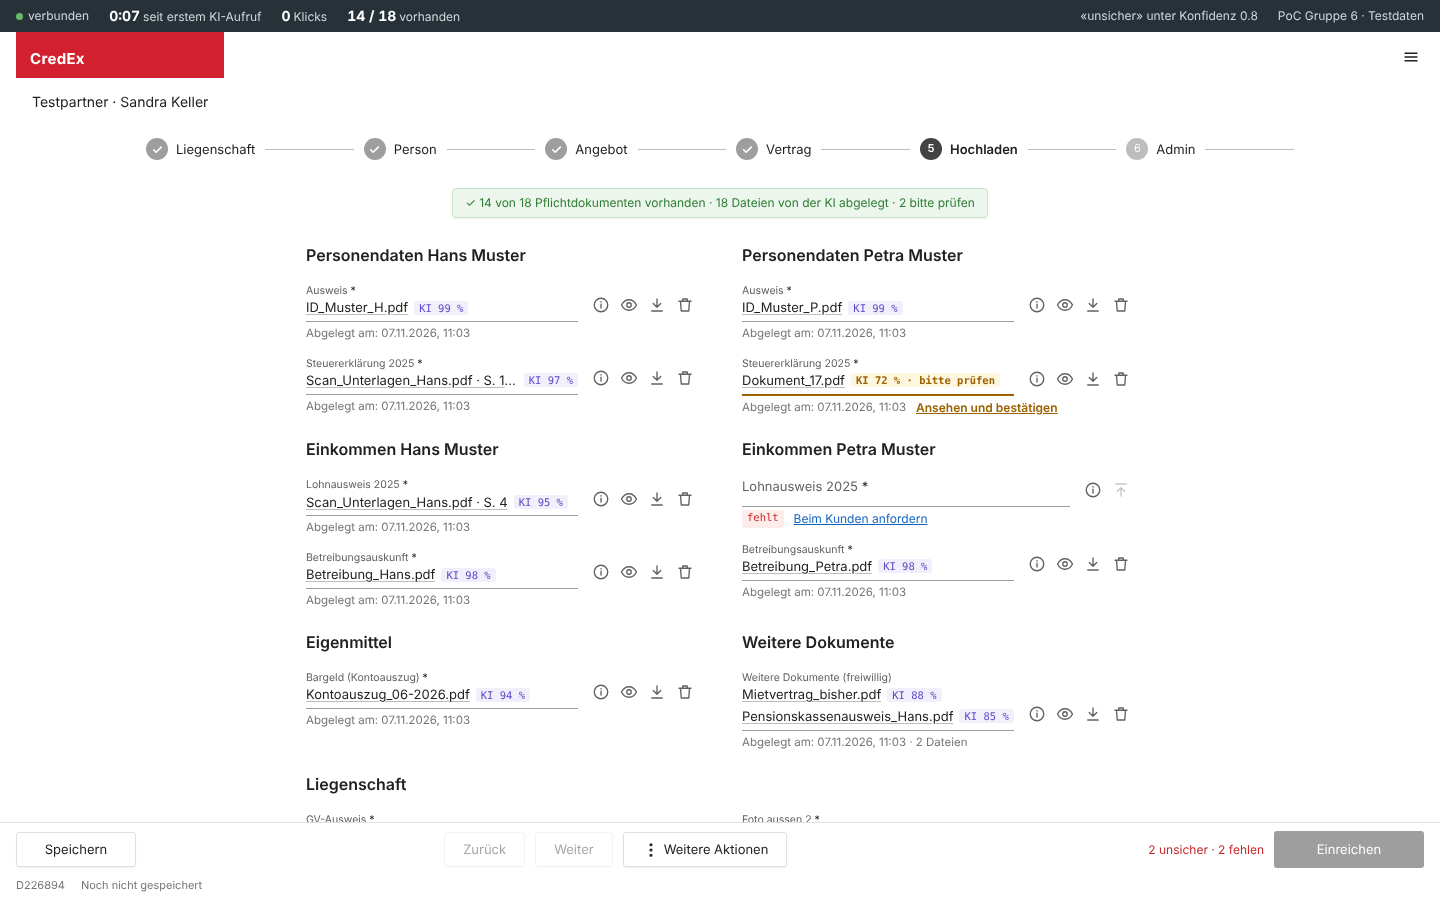
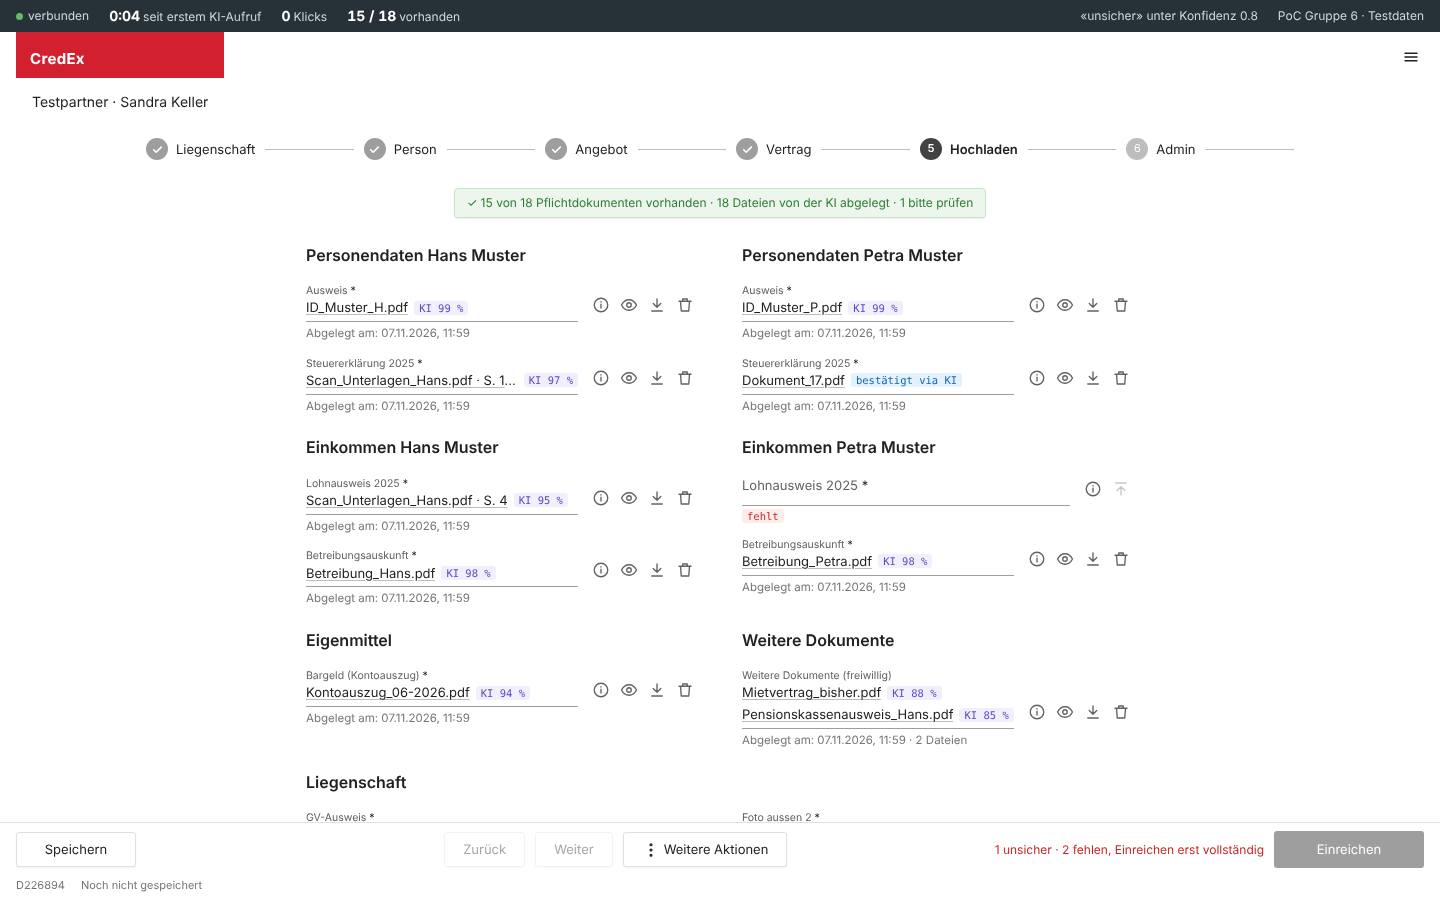
v1.6: PoC und Excel auf den Stand der Teamentscheide, Freigabe des Lehrbeispiels festgehalten
Claude-Session: https://claude.ai/code/session_01UmNbM57KSkFmrku1Dkr5S5

diff --git a/content/prototype/pocMcpServer.md b/content/prototype/pocMcpServer.md
@@ -12,9 +12,11 @@ sources:
     resource: /interface/mcpSchnittstelle.md
   - id: cr-1-3
     resource: /sources/cr_1_3.md
+  - id: cr-1-6
+    resource: /sources/cr_1_6.md
 generated:
   by: jarvis/1.0
-  at: 2026-11-07T10:13:58Z
+  at: 2026-11-07T11:00:54Z
 ---
 
 # Prototyp – PoC MCP-Server
@@ -32,9 +34,13 @@ Belegen, dass das Konversations-LLM die Arbeit wirklich erleichtert (Feedback Mo
 
 ## Screens
 
-![PoC-Übersicht nach der Ablage durch die KI: 14 von 18 vorhanden, 2 unsicher, 2 fehlen](img/pocUebersicht.png)
+![PoC-Übersicht nach der Ablage durch die KI: 15 von 18 vorhanden, 1 unsicher, 2 fehlen](img/pocUebersicht.png)
 
-*Übersicht nach einem Testlauf am 07.11.2026: Die KI hat das Sammel-PDF von Hans in Steuererklärung (S. 1–3) und Lohnausweis (S. 4) geteilt, Dokument_17 als Steuererklärung von Petra mit 72 % erkannt (unter der Schwelle, «bitte prüfen»). Lohnausweis Petra und Grundbuchauszug fehlen absichtlich. Einreichen ist gesperrt.*
+*Übersicht nach einem Testlauf am 07.11.2026: Die KI hat das Sammel-PDF von Hans in Steuererklärung (S. 1–3) und Lohnausweis (S. 4) geteilt und Dokument_17 als Steuererklärung von Petra mit 72 % erkannt, unter der Schwelle. Die Beraterin hat diese Zuordnung per Auftrag an die KI bestätigt («bestätigt via KI»). Das Foto Wohnzimmer ist noch unsicher; Lohnausweis Petra und Grundbuchauszug fehlen absichtlich. Einreichen bleibt gesperrt, bis alles vorhanden ist.*
+
+![Zuordnungsprotokoll des PoC mit den Akteuren KI und BERATER_VIA_KI und dem Auftrag an die KI im Wortlaut](img/pocProtokoll.png)
+
+*Das Zuordnungsprotokoll: Jeder Protokolleintrag nennt den Akteur wie im Fachklassenmodell (`KI`, `BERATER`, `BERATER_VIA_KI`). Bei `BERATER_VIA_KI` steht der Auftrag an die KI im Wortlaut darunter, auch im CSV-Export.*
 
 ## Abgedeckte Stories
 
@@ -42,12 +48,15 @@ Belegen, dass das Konversations-LLM die Arbeit wirklich erleichtert (Feedback Mo
 
 ## Stand und Abweichungen
 
-Stand 30.10.2026. Bewusste Vereinfachungen: keine Anmeldung (eine feste Testberaterin), Dateien per Dateiname statt echtem Upload, Speicherung in JSON statt in der Plattform, Konfidenz von der KI selbst geliefert.
+Stand 07.11.2026, auf dem Stand aller Entscheide. Bewusste Vereinfachungen: keine Anmeldung (eine feste Testberaterin), Dateien per Dateiname statt echtem Upload, Speicherung in JSON statt in der Plattform, Konfidenz von der KI selbst geliefert.
 
-Nachzuführen auf die Entscheide vom 30.10. und 07.11.:
+Am 07.11.2026 nachgeführt:
 
-| Abweichung im PoC | Entscheid | Massnahme |
+| Vorher im PoC | Entscheid | Jetzt |
 |---|---|---|
-| Schaltfläche «Beim Kunden anfordern» (im Screenshot sichtbar) | [E05](../decisions/e05NachfordernNichtImScope.md) | entfernen |
-| Einreichen mit Begründung bei fehlenden Pflichtdokumenten | [E09](../decisions/e09EinreichenNurVollstaendig.md) | Begründungsfeld entfernen, nur vollständig |
-| Protokoll schreibt «Beraterin (via KI)» | [E10](../decisions/e10BestaetigenPerKiAuftrag.md) | auf `BERATER_VIA_KI` vereinheitlichen |
+| Schaltfläche «Beim Kunden anfordern» und Status «angefordert» | [E05](../decisions/e05NachfordernNichtImScope.md) | entfernt; fehlende Dokumente beschafft die Beraterin selbst, die KI legt sie danach im selben Antrag ab |
+| Einreichen mit Begründung bei fehlenden Pflichtdokumenten | [E09](../decisions/e09EinreichenNurVollstaendig.md) | Begründungsfeld entfernt; Einreichen erst, wenn kein Pflichtdokument fehlt und keine Zuordnung unsicher ist, auch serverseitig geprüft |
+| Protokoll schreibt «Beraterin (via KI)», Auftrag gekürzt im Aktionstext | [E10](../decisions/e10BestaetigenPerKiAuftrag.md) | Akteur `KI`, `BERATER` oder `BERATER_VIA_KI` wie im [Protokolleintrag](../domain_model/entities/protokolleintrag.md); Auftrag im Wortlaut in einem eigenen Feld |
+| Werkzeuge geben deutsche Kurzformen als Status zurück | [MCP-Schnittstelle](../interface/mcpSchnittstelle.md) | Status wie in der Spezifikation: `FEHLT`, `UNSICHER`, `VORHANDEN` und `VON_KI_ZUGEORDNET`, `BESTAETIGT`, `VERWORFEN` |
+
+Für einen vollständigen Testlauf liegen die zwei absichtlich fehlenden Pflichtdokumente im Ordner `testdossier_nachreichung/` des PoC; die Testleitung legt sie als «Nachreichung des Kunden» ins Dossier. Die Vorversion des PoC ist im Gruppenordner archiviert.

diff --git a/content/sources/cr_1_6.md b/content/sources/cr_1_6.md
@@ -1,0 +1,61 @@
+---
+title: "CR-1.6 – PoC und Excel auf den Stand der Teamentscheide"
+linkTitle: "CR-1.6 PoC und Excel nachgeführt"
+type: change-request
+description: "Den PoC auf die Teamentscheide E05, E09 und E10 nachführen, das Anforderungs-Excel als gültige Fassung übernehmen und die Freigabe des Lehrbeispiels festhalten."
+weight: 7
+generated:
+  by: jarvis/1.0
+  at: 2026-11-07T11:01:17Z
+---
+
+# CR-1.6 – PoC und Excel auf den Stand der Teamentscheide
+
+Der Change Request, der die letzten bekannten Abweichungen zwischen PoC, Anforderungs-Excel und dieser Dokumentation schliesst.
+
+---
+
+## Anfrage
+
+Angefragt von Cem Öngören am 07.11.2026: Freigabe des Lehrbeispiels durch Marcel Ronner festhalten, den PoC umbauen, das nachgeführte Anforderungs-Excel als gültige Fassung bestätigen.
+
+## Analyse
+
+- Die Seite zum PoC führte drei Abweichungen von den Entscheiden E05, E09 und E10 als offen. Dazu gaben die Werkzeuge des PoC den Status mit deutschen Kurzformen zurück statt mit den Werten der MCP-Schnittstelle.
+- Mit «nur vollständig einreichen» kann ein PoC-Test mit dem Testdossier nie einreichen, weil zwei Pflichtdokumente absichtlich fehlen. Der Test braucht deshalb eine Nachreichung.
+- FA-07, FA-11 und NFA-04 standen als «im Excel nachzutragen» in den Katalogen.
+
+## Grundlagen
+
+Teamentscheide [E05](../decisions/e05NachfordernNichtImScope.md), [E09](../decisions/e09EinreichenNurVollstaendig.md) und [E10](../decisions/e10BestaetigenPerKiAuftrag.md); die [MCP-Schnittstelle](../interface/mcpSchnittstelle.md); der [Protokolleintrag](../domain_model/entities/protokolleintrag.md) im Fachklassenmodell.
+
+## Entscheide
+
+- **PoC:** Die Schaltfläche «Beim Kunden anfordern» und das Begründungsfeld sind entfernt. Einreichen geht nur vollständig, auch serverseitig geprüft. Das Protokoll schreibt den Akteur als `KI`, `BERATER` oder `BERATER_VIA_KI` und den Auftrag an die KI im Wortlaut. Die Werkzeuge geben den Status wie in der Spezifikation zurück. Ein gespeicherter Zustand der Vorversion wird übernommen. Die Vorversion ist im Gruppenordner archiviert.
+- **PoC-Test:** Die zwei fehlenden Pflichtdokumente liegen als «Nachreichung des Kunden» bereit. Die Testleitung legt sie während des Tests ins Dossier.
+- **Excel:** Die Fassung vom 07.11.2026 ist gültig (FA-07 ohne Begründung, FA-11 neu mit Priorität Mittel, NFA-04 «alle acht Werkzeuge»). Die Fassung vom 31.10.2026 ist archiviert.
+- **Lehrbeispiel:** Marcel Ronner hat die Nutzung von okf-productdocumentation am 07.11.2026 freigegeben. Das README hält es fest.
+
+## Auswirkungen
+
+| Artefakt | Auswirkung | Details |
+|---|---|---|
+| [Prototyp – PoC MCP-Server](../prototype/pocMcpServer.md) | geändert | neue Screens, Abweichungen als umgesetzt |
+| [Validierung – PoC-Test](../validation/pocTest.md) | geändert | Nachreichung im Ablauf, Vorlauf wiederholt |
+| [Funktionale Anforderungen](../requirements/funktionaleAnforderungen.md) | geändert | offene Punkte erledigt |
+| [Nicht-funktionale Anforderungen](../requirements/nichtfunktionaleAnforderungen.md) | geändert | NFA-04 im Excel erledigt |
+| README | geändert | Freigabe durch Marcel Ronner |
+| PoC im Gruppenordner, Anforderungs-Excel | geändert | ausserhalb dieser Dokumentation |
+
+## User Stories
+
+Keine. Die Stories beschrieben das Verhalten schon richtig; der PoC folgt ihnen jetzt.
+
+## Abnahme
+
+- Der PoC zeigt kein «Beim Kunden anfordern» und kein Begründungsfeld; Einreichen mit Lücken lehnt der Server ab.
+- Ein Bestätigen per Auftrag an die KI steht im Protokoll und im CSV als `BERATER_VIA_KI` mit dem Auftrag im Wortlaut.
+
+## Status
+
+Umgesetzt in v1.6 am 2026-11-07. Wartet auf die Freigabe der Gruppe.

diff --git a/content/validation/pocTest.md b/content/validation/pocTest.md
@@ -12,9 +12,11 @@ sources:
     resource: /requirements/nichtfunktionaleAnforderungen.md
   - id: cr-1-3
     resource: /sources/cr_1_3.md
+  - id: cr-1-6
+    resource: /sources/cr_1_6.md
 generated:
   by: jarvis/1.0
-  at: 2026-11-07T10:13:58Z
+  at: 2026-11-07T11:00:54Z
 ---
 
 # Validierung – PoC-Test heute gegen neu
@@ -30,6 +32,7 @@ Belegen, dass der Upload über die eigene KI die Arbeit erleichtert (Feedback Mo
 | Teilnehmende | 3 bis 5 Kundenberatende eines Partners, vermittelt über V1 |
 | Design | Jede Person macht beide Varianten mit demselben Testdossier (17 Dateien): heute (Einzel-Upload im [Klickprototyp](../prototype/klickprototyp.md)) und neu ([PoC](../prototype/pocMcpServer.md)); Reihenfolge abwechselnd gegen Lerneffekte |
 | Ablauf pro Person, ca. 30 Min. | Einführung 3 Min. · Variante 1 · Variante 2 · Kurzfragebogen und 2 offene Fragen · Testlauf zurücksetzen |
+| Nachreichung | Eingereicht wird nur vollständig ([E09](../decisions/e09EinreichenNurVollstaendig.md)). Sobald die Testperson die Lücken sieht, legt die Testleitung die zwei fehlenden Pflichtdokumente aus `testdossier_nachreichung/` ins Dossier («der Kunde hat sie geschickt»); die Testperson lässt sie von der KI ablegen und reicht dann ein. Die Wartezeit dazwischen zählt nicht zur Dauer. |
 | Messung | automatisch: Dauer bis Einreichung, Klicks, Bestätigungen und Umordnungen (`messungen.csv`); manuell: korrekte Zuordnungen gegen Musterlösung; Fragebogen 1 bis 5 |
 | Termin | Testwoche 16. bis 18.11.2026 |
 
@@ -52,7 +55,7 @@ Belegen, dass der Upload über die eigene KI die Arbeit erleichtert (Feedback Mo
 | Zufriedenheit (1 bis 5) | *ausstehend* | *ausstehend* | |
 | Wechsel KI-Fenster störend? (1 bis 5) | entfällt | *ausstehend* | |
 
-Technischer Vorlauf am 07.11.2026 (ohne Testpersonen, Werkzeugaufrufe direkt): 17 Dateien abgelegt, Sammel-PDF korrekt aufgeteilt, 2 Zuordnungen unter der Schwelle erkannt, 2 fehlende Pflichtdokumente gemeldet, Einreichen gesperrt.
+Technischer Vorlauf am 07.11.2026 (ohne Testpersonen, Werkzeugaufrufe direkt): 17 Dateien abgelegt, Sammel-PDF korrekt aufgeteilt, 2 Zuordnungen unter der Schwelle erkannt, 2 fehlende Pflichtdokumente gemeldet, Einreichen gesperrt. Nach dem Nachführen des PoC am selben Tag wiederholt: eine Zuordnung per Auftrag an die KI bestätigt und als `BERATER_VIA_KI` mit Auftrag protokolliert; Einreichen mit Lücken vom Server abgelehnt, nach der Nachreichung möglich.
 
 ## Änderungen an den Artefakten
 

diff --git a/content/traceability/freigaben.md b/content/traceability/freigaben.md
@@ -2,7 +2,7 @@
 title: "Freigaben – CredEx Phase 1"
 linkTitle: "Freigaben"
 type: approval-status
-description: "Welche Artefakte ein Mensch aus der Gruppe geprüft und freigegeben hat: 0 von 85."
+description: "Welche Artefakte ein Mensch aus der Gruppe geprüft und freigegeben hat: 0 von 86."
 weight: 2
 ---
 
@@ -10,7 +10,7 @@ weight: 2
 
 # Freigaben – CredEx Phase 1
 
-**0 von 85 Artefakten freigegeben.** Jarvis schreibt Entwürfe (`generated`); freigegeben ist ein Artefakt erst, wenn ein Mensch aus der Gruppe es gelesen hat und das mit `make verify PAGES="…" WHO=<name>` festhält – oder ohne Installation über GitHub: *Actions → Freigabe erfassen → Run workflow*.
+**0 von 86 Artefakten freigegeben.** Jarvis schreibt Entwürfe (`generated`); freigegeben ist ein Artefakt erst, wenn ein Mensch aus der Gruppe es gelesen hat und das mit `make verify PAGES="…" WHO=<name>` festhält – oder ohne Installation über GitHub: *Actions → Freigabe erfassen → Run workflow*.
 
 Die **Vertrauensstufe** leitet sich aus `verified` ab, wie es das Open Knowledge Format vorsieht: ○ *Entwurf* ohne Freigabe, ◐ *maschinell bestätigt*, wenn nur ein Prozess bestätigt hat, ✔ *freigegeben*, sobald ein Mensch freigegeben hat. *Seither geändert* heisst, dass Jarvis das Artefakt nach der letzten Freigabe neu geschrieben hat; dann gilt die Freigabe nur für die frühere Fassung. Jede Seite zeigt ihre Stufe auch oben im Text.
 
@@ -81,6 +81,7 @@ Die **Vertrauensstufe** leitet sich aus `verified` ab, wie es das Open Knowledge
 | [CR-1.3 – Vollständigkeit nach CAS Modul 2](../sources/cr_1_3.md) | `change-request` | 2026-11-07 | ○ Entwurf | **offen** |
 | [CR-1.4 – Website und Freigabe-Workflow](../sources/cr_1_4.md) | `change-request` | 2026-11-07 | ○ Entwurf | **offen** |
 | [CR-1.5 – Befunde des OKF-Assessments beheben](../sources/cr_1_5.md) | `change-request` | 2026-11-07 | ○ Entwurf | **offen** |
+| [CR-1.6 – PoC und Excel auf den Stand der Teamentscheide](../sources/cr_1_6.md) | `change-request` | 2026-11-07 | ○ Entwurf | **offen** |
 | [OKF v0.2 Conformance Assessment – 2026-11-07](../sources/okf_assessment_2026_11_07.md) | `assessment` | 2026-11-07 | ○ Entwurf | **offen** |
 | [Zustandsdiagramm – Antrag](../state_chart/antragStateChart.md) | `state-chart` | 2026-11-07 | ○ Entwurf | **offen** |
 | [Zustandsdiagramm – Dokument](../state_chart/dokumentStateChart.md) | `state-chart` | 2026-11-07 | ○ Entwurf | **offen** |

diff --git a/content/change_log/changeLog.md b/content/change_log/changeLog.md
@@ -17,9 +17,11 @@ sources:
     resource: /sources/cr_1_4.md
   - id: cr-1-5
     resource: /sources/cr_1_5.md
+  - id: cr-1-6
+    resource: /sources/cr_1_6.md
 generated:
   by: jarvis/1.0
-  at: 2026-11-07T10:22:19Z
+  at: 2026-11-07T11:01:17Z
 ---
 
 # Change Log – CredEx Phase 1
@@ -36,6 +38,22 @@ Jeder Versionsabschnitt nennt **jedes Artefakt, das erstellt oder geändert wurd
 | 🟡 `geändert` | Bestehendes Artefakt oder Element geändert |
 | 🔴 `veraltet` | Artefakt oder Element zur Entfernung vorgesehen |
 | ⚫ `entfernt` | Artefakt oder Element gelöscht |
+
+---
+
+## v1.6 – PoC und Excel auf den Stand der Teamentscheide (2026-11-07)
+
+Der PoC folgt den Entscheiden E05, E09 und E10, das Anforderungs-Excel vom 07.11. ist gültig, und die Freigabe des Lehrbeispiels ist festgehalten. Siehe [CR-1.6](../sources/cr_1_6.md).
+
+| Artefakt | Status | Beschreibung |
+|---|---|---|
+| [Prototyp – PoC MCP-Server](../prototype/pocMcpServer.md) | 🟡 geändert | Neue Screens (Übersicht, Protokoll), Abweichungen umgesetzt |
+| [Validierung – PoC-Test heute gegen neu](../validation/pocTest.md) | 🟡 geändert | Nachreichung im Ablauf, technischer Vorlauf wiederholt |
+| [Funktionale Anforderungen – CredEx Phase 1](../requirements/funktionaleAnforderungen.md) | 🟡 geändert | FA-07 und FA-11 im Excel erledigt |
+| [Nicht-funktionale Anforderungen – CredEx Phase 1](../requirements/nichtfunktionaleAnforderungen.md) | 🟡 geändert | NFA-04 im Excel erledigt |
+| [CR-1.6 – PoC und Excel auf den Stand der Teamentscheide](../sources/cr_1_6.md) | 🟢 neu | Der Change Request zu dieser Version |
+| [Change Log – CredEx Phase 1](../change_log/changeLog.md) | 🟡 geändert | Eintrag v1.6 |
+| [Log](../log.md) | 🟡 geändert | Neu erzeugt |
 
 ---
 

diff --git a/content/log.md b/content/log.md
@@ -12,6 +12,7 @@ weight: 80
 ## 2026-11-07
 
 - **Assessment:** [OKF v0.2 Conformance Assessment – 2026-11-07](sources/okf_assessment_2026_11_07.md) — Conformant with OKF v0.2 on all three mandatory checks; of the 41 checks, 24 meets, 3 partial, 5 not adopted, 1 deviates, 8 n/a.
+- **Release:** [v1.6 – PoC und Excel auf den Stand der Teamentscheide](change_log/changeLog.md) — Der PoC folgt den Entscheiden E05, E09 und E10, das Anforderungs-Excel vom 07.11. ist gültig, und die Freigabe des Lehrbeispiels ist festgehalten. Siehe CR-1.6.
 - **Release:** [v1.5 – Befunde des OKF-Assessments behoben](change_log/changeLog.md) — Fussnoten auf den Akteurseiten, ehrliche Zeitstempel, die Vertrauensstufe auf jeder Seite und der Grund für relative Links. Siehe CR-1.5.
 - **Release:** [v1.4 – Website und Freigabe-Workflow](change_log/changeLog.md) — Deutsche Oberfläche, Druckfassung, Freigabe ohne lokale Installation und eine erzeugte Übersicht der Freigaben. Siehe CR-1.4.
 - **Release:** [v1.3 – Vollständigkeit nach CAS Modul 2](change_log/changeLog.md) — Alle Artefakte, die Modul 2 verlangt: Ausgangslage, Rollen und Personas, Restriktionen, Entscheide, Lösungsoptionen, Prototypen, Validierung, Architektur, Umsetzung, Rückverfolgung und Glossar. Siehe CR-1.3.

diff --git a/content/requirements/funktionaleAnforderungen.md b/content/requirements/funktionaleAnforderungen.md
@@ -28,9 +28,11 @@ sources:
     resource: /sources/cr_1_0.md
   - id: cr-1-2
     resource: /sources/cr_1_2.md
+  - id: cr-1-6
+    resource: /sources/cr_1_6.md
 generated:
   by: jarvis/1.0
-  at: 2026-11-07T10:13:58Z
+  at: 2026-11-07T11:00:54Z
 ---
 
 # Funktionale Anforderungen – CredEx Phase 1
@@ -64,5 +66,4 @@ Die funktionalen Anforderungen beschreiben, was das System können muss. Quelle 
 
 ## Offene Punkte
 
-- **FA-07** ist gegenüber dem Excel vom 31.10.2026 geändert: kein Einreichen mit Begründung mehr (siehe [CR-1.0](../sources/cr_1_0.md)). Das Excel ist nachzuführen.
-- **FA-11** ist neu (Teamentscheid 07.11.2026) und im Anforderungs-Excel nachzutragen.
+- Keine. FA-07 (kein Einreichen mit Begründung mehr, siehe [CR-1.0](../sources/cr_1_0.md)) und FA-11 (neu, Teamentscheid 07.11.2026) stehen seit dem 07.11.2026 auch im Anforderungs-Excel, das die Gruppe als gültige Fassung bestätigt hat.

diff --git a/content/requirements/nichtfunktionaleAnforderungen.md b/content/requirements/nichtfunktionaleAnforderungen.md
@@ -16,9 +16,11 @@ sources:
     resource: /sources/cr_1_2.md
   - id: cr-1-3
     resource: /sources/cr_1_3.md
+  - id: cr-1-6
+    resource: /sources/cr_1_6.md
 generated:
   by: jarvis/1.0
-  at: 2026-11-07T10:13:58Z
+  at: 2026-11-07T11:00:54Z
 ---
 
 # Nicht-funktionale Anforderungen – CredEx Phase 1
@@ -79,6 +81,5 @@ Restriktionen sind nicht verhandelbar und schränken den Lösungsraum ein (Einte
 ## Offene Punkte
 
 - Zielwerte für NFA-01 (Korrektheit) und NFA-02 (Zeitverhalten) nach dem PoC-Test festlegen.
-- NFA-04: «alle acht Werkzeuge» im Anforderungs-Excel nachtragen (dort noch «alle 4»).
 - NFA-12: Aufbewahrungsdauer der Protokolleinträge mit der Compliance der Glarner KB klären.
 - Das Detailkonzept (Kapitel 6.3) führt noch eine ältere Liste mit 9 NFA und anderen IDs; massgebend ist diese Liste.

diff --git a/README.md b/README.md
@@ -15,7 +15,7 @@ und entwirft die User Stories. Die Gruppe entscheidet und gibt frei.
 
 Grundlage ist das Lehrbeispiel [okf-productdocumentation](https://github.com/marcelRonner/okf-productdocumentation)
 von Marcel Ronner (ATM-System). Alle ATM-Inhalte sind entfernt; Mechanik, Skripte und Prüfregister sind
-übernommen.
+übernommen. Marcel Ronner hat die Nutzung für diese Gruppenarbeit am 07.11.2026 ausdrücklich freigegeben.
 
 ## Wo anfangen
 
